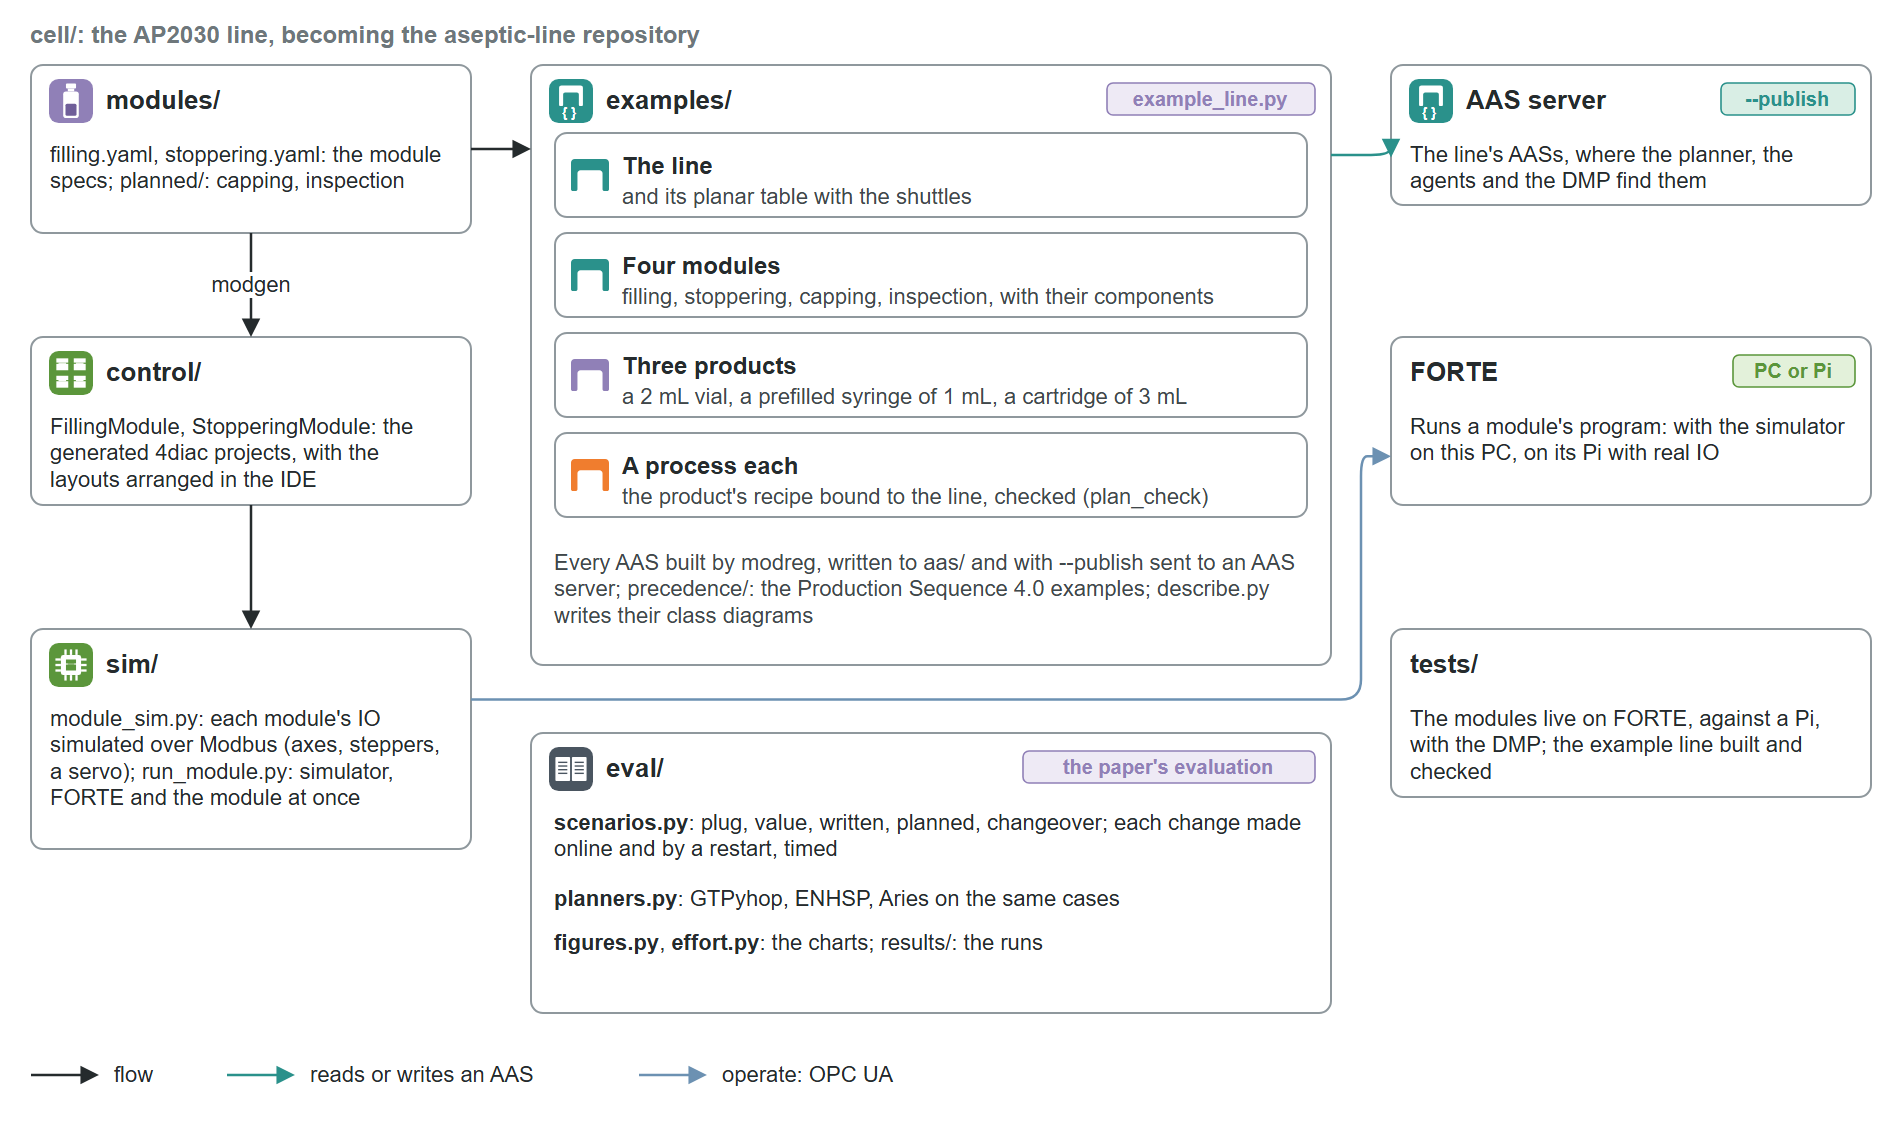
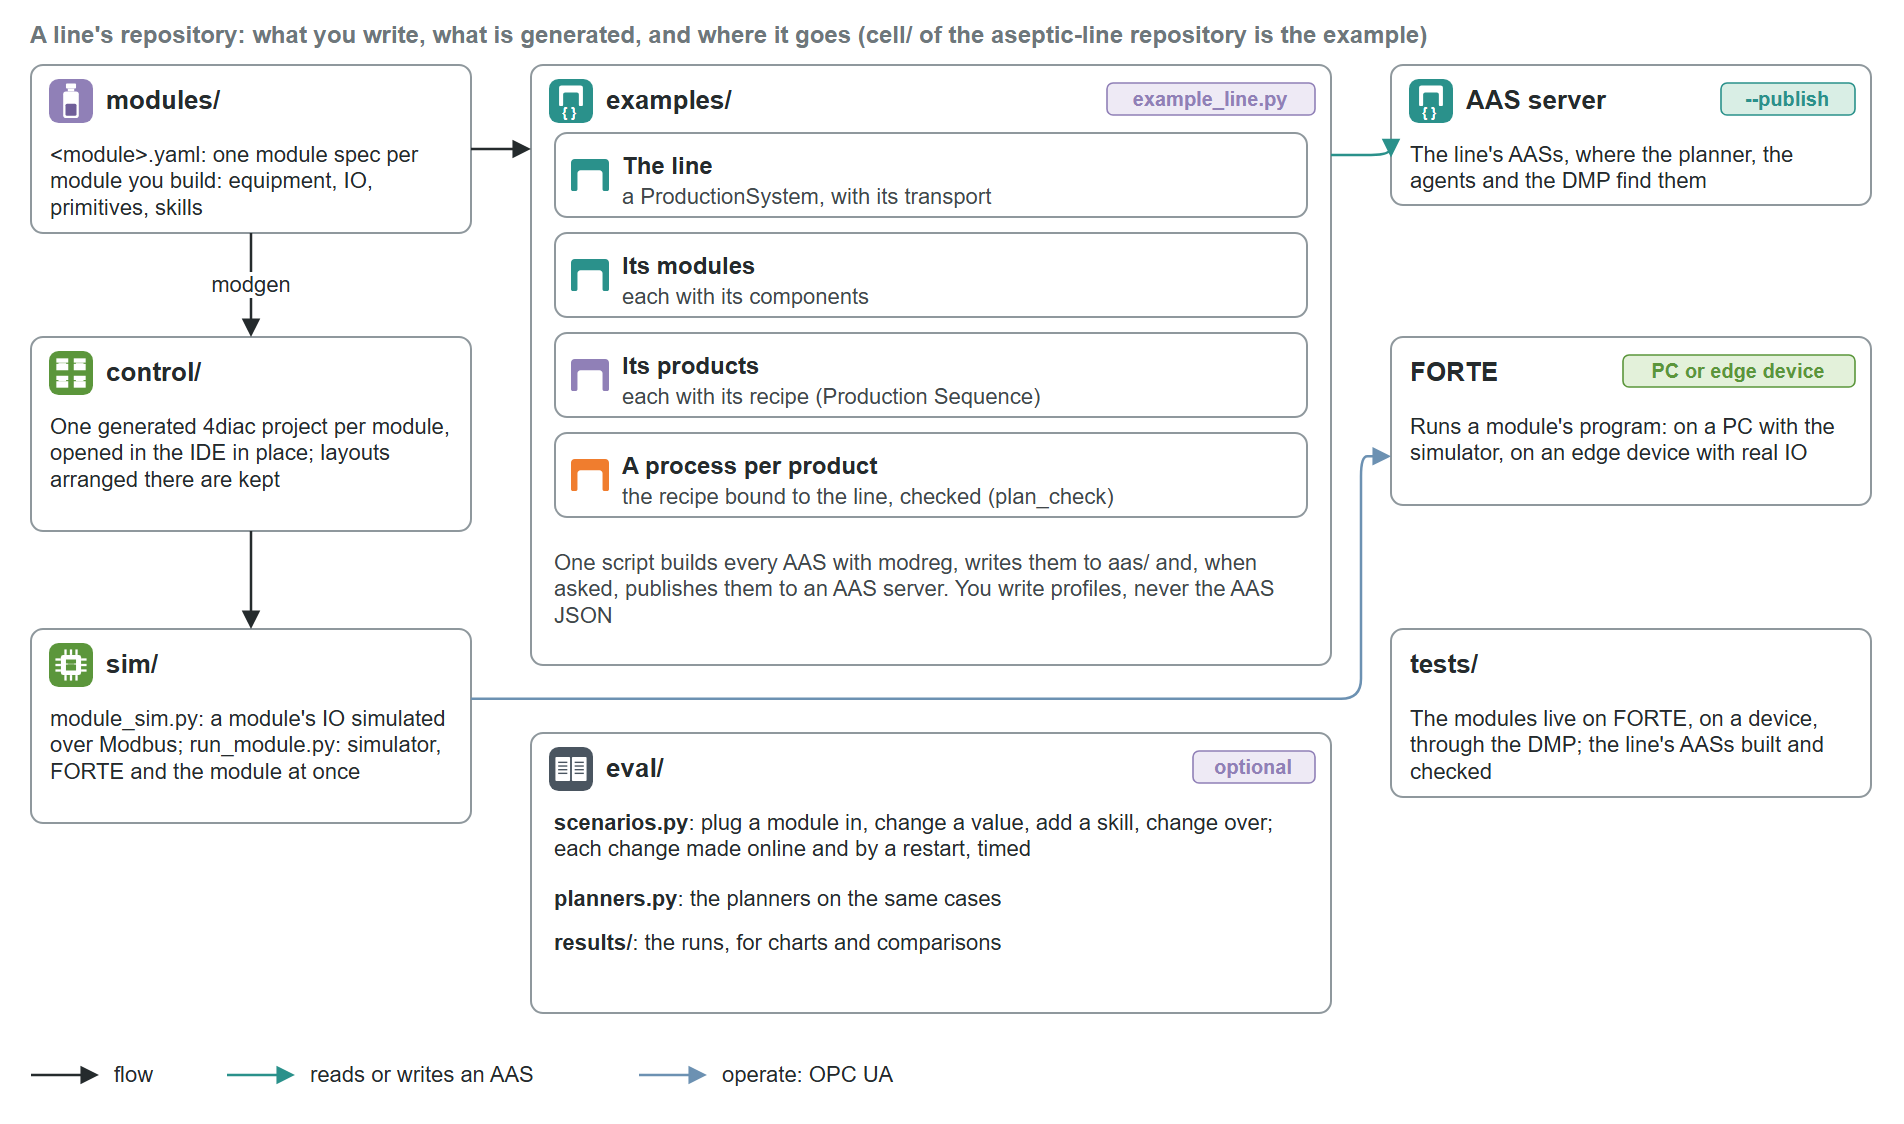
Lines page and figure: how to lay out a line's repository, the aseptic line as the example

diff --git a/docs/lines/aseptic-line.md b/docs/lines/aseptic-line.md
@@ -1,49 +1,56 @@
-# The aseptic line
+# A line's repository
 
-<span class="pillar lines">Lines</span> The AP2030 line: an aseptic filling line for pharmaceutical
-containers, built with AASPIRE. Its module specs and generated programs, the simulators, the AASs of
-its resources, products and processes, and the evaluation. Folder `cell/`; becomes the `aseptic-line`
-repository, with the working notes.
+<span class="pillar lines">Lines</span> A line built with AASPIRE lives in a repository of its own: the
+module specs you write, the programs generated from them, the simulators, the AASs of its resources,
+products and processes, and the tests. This page shows how to lay one out, with the
+[aseptic-line](https://github.com/AAU-AASPIRE/aseptic-line) repository, an aseptic filling line, as the
+worked example. Start your own line by copying its layout.
 
 <figure markdown="span">
-  [![The folders of cell/: modules, control and sim on the left; the example line's AASs and the
+  [![The folders of a line's repository: modules, control and sim on the left; the line's AASs and the
   evaluation in the middle; the AAS server, FORTE and the tests on the right](../figures/aseptic-line.png)](../figures/aseptic-line.png)
   <figcaption>Specs become programs (control/) and AASs (examples/); the simulator stands in for the
-  hardware; the evaluation times each change online and by a restart.</figcaption>
+  hardware; an optional evaluation times each change online and by a restart.</figcaption>
 </figure>
-
-## The line
-
-A planar motor table carries the containers on shuttles between the modules:
-
-| Module | Does | State |
-| --- | --- | --- |
-| Filling | Doses a volume through a needle on a linear axis: a stepper motor through a TB6600 driver, a pump, a scale (simulated) | runs on its Raspberry Pi 5, the axis moving |
-| Stoppering | Brings its head down onto the container with a linear axis; a small actuator presses the stopper in | runs on FORTE with simulated IO; its Raspberry Pi 5 named, its runtime and wiring next |
-| Capping | Crimps a cap: a linear axis like filling's, the crimper simulated | runs on FORTE with simulated IO; its Raspberry Pi 5 to come |
-| Inspection | A camera, triggered over OPC UA; the images to a store beside the AAS server | planned |
-| Loading, unloading | A KUKA robot each, behind a Raspberry Pi that starts the robot's jobs | planned |
-
-The products: a 2 mL vial, a prefilled syringe of 1 mL and a cartridge of 3 mL, each with its recipe,
-and the process of each on the line.
 
 ## The folders
 
-| Folder | Holds |
-| --- | --- |
-| `modules/` | The module specs (`filling.yaml`, `stoppering.yaml`, `capping.yaml`; `planned/`: inspection) |
-| `control/` | The generated 4diac projects (`FillingModule`, `StopperingModule`, `CappingModule`), with the layouts arranged in the IDE |
-| `sim/` | `module_sim.py`: a module's IO simulated over Modbus (axes, steppers, a servo); `run_module.py`: simulator, FORTE and the module at once; `module_ua.py`: a small OPC UA client |
-| `examples/` | `example_line.py`: every AAS of the line built by modreg (the line, the planar table and its shuttles, the four modules and their components, the products, a process each), each process checked (`plan_check.py`), published with `--publish`; `precedence/`: the Production Sequence 4.0 examples; `describe.py`: the class diagrams |
-| `eval/` | The paper's evaluation: `scenarios.py` (plug a module in; change a value; a written skill; a planned skill; the changeover to the syringe, each online and by a restart), `planners.py`, `figures.py`, `effort.py`, `results/` |
-| `tests/` | The modules live on FORTE and against a Pi, through the DMP, the example line built and checked |
+| Folder | Holds | You |
+| --- | --- | --- |
+| `modules/` | One module spec per module (`<module>.yaml`): equipment, IO per target, primitives, skills, procedures | write |
+| `control/` | The generated 4diac projects, one per module, with the layouts arranged in the IDE | generate with `python -m modgen`, then arrange |
+| `sim/` | `module_sim.py`: a module's IO simulated over Modbus; `run_module.py`: simulator, FORTE and the module at once; `module_ua.py`: a small OPC UA client | reuse as is |
+| `examples/` | `example_line.py`: every AAS of the line built with modreg (the line, its transport, the modules and their components, the products, a process each), each process checked (`plan_check.py`), published with `--publish` | write |
+| `eval/` | Optional: scenarios that time each change online and by a restart, planners compared | write if you evaluate |
+| `tests/` | The modules live on FORTE, on a device, through the DMP; the line's AASs built and checked | write |
+
+## Build a line, step by step
+
+1. **Specify each module** in `modules/<module>.yaml`
+   ([building skills and equipment](../reference/building-skills.md)).
+2. **Generate** the programs: `python -m modgen` (with `MODGEN_CELL` naming your line's folder), and
+   build a FORTE with their block types ([FORTE runtime](../reconfiguration/runtime.md)).
+3. **Run each module on a PC** with its IO simulated, and test it
+   ([run a module on a PC](../how-to/simulation.md)).
+4. **Describe the line**: a script like `example_line.py` that builds the line's, the modules', the
+   products' and the processes' AASs from profiles, and checks every process.
+5. **Deploy** the modules to their devices ([deploy to an edge device](../how-to/raspberry-pi.md)) and
+   **publish** the AASs ([register a module, publish a line](../how-to/register.md)).
+
+In the example:
 
 ```powershell
-python cell/sim/run_module.py cell/modules/filling.yaml          # a module with simulated IO
+cd aseptic-line
+python cell/sim/run_module.py cell/modules/<module>.yaml           # a module with simulated IO
 python cell/examples/example_line.py --out aas --publish http://localhost:8081
-python cell/eval/scenarios.py --forte <forte.exe> --runs 5       # the evaluation
+python cell/eval/scenarios.py --forte <forte.exe> --runs 5         # the evaluation
 ```
 
-Read further: [modules.md](../reference/modules.md)
-(the two modules and their hardware), [demo-modules.md](https://github.com/AAU-AASPIRE/aaspire-internal/blob/main/docs/demo-modules.md)
-(the other four), [aas-examples.md](../reference/aas-examples.md).
+## The example line
+
+The aseptic line fills pharmaceutical containers. A planar motor table carries them on shuttles
+between the modules: filling (a needle on a linear axis, a pump, a scale), stoppering, capping,
+inspection, and loading and unloading by robots. Its products are a vial, a prefilled syringe and a
+cartridge, each with its recipe and its process on the line. The pages in the
+[Reference](../reference/aas-examples.md) section go through it in depth: its AASs, its modules and
+their hardware, and the filling program block by block.
